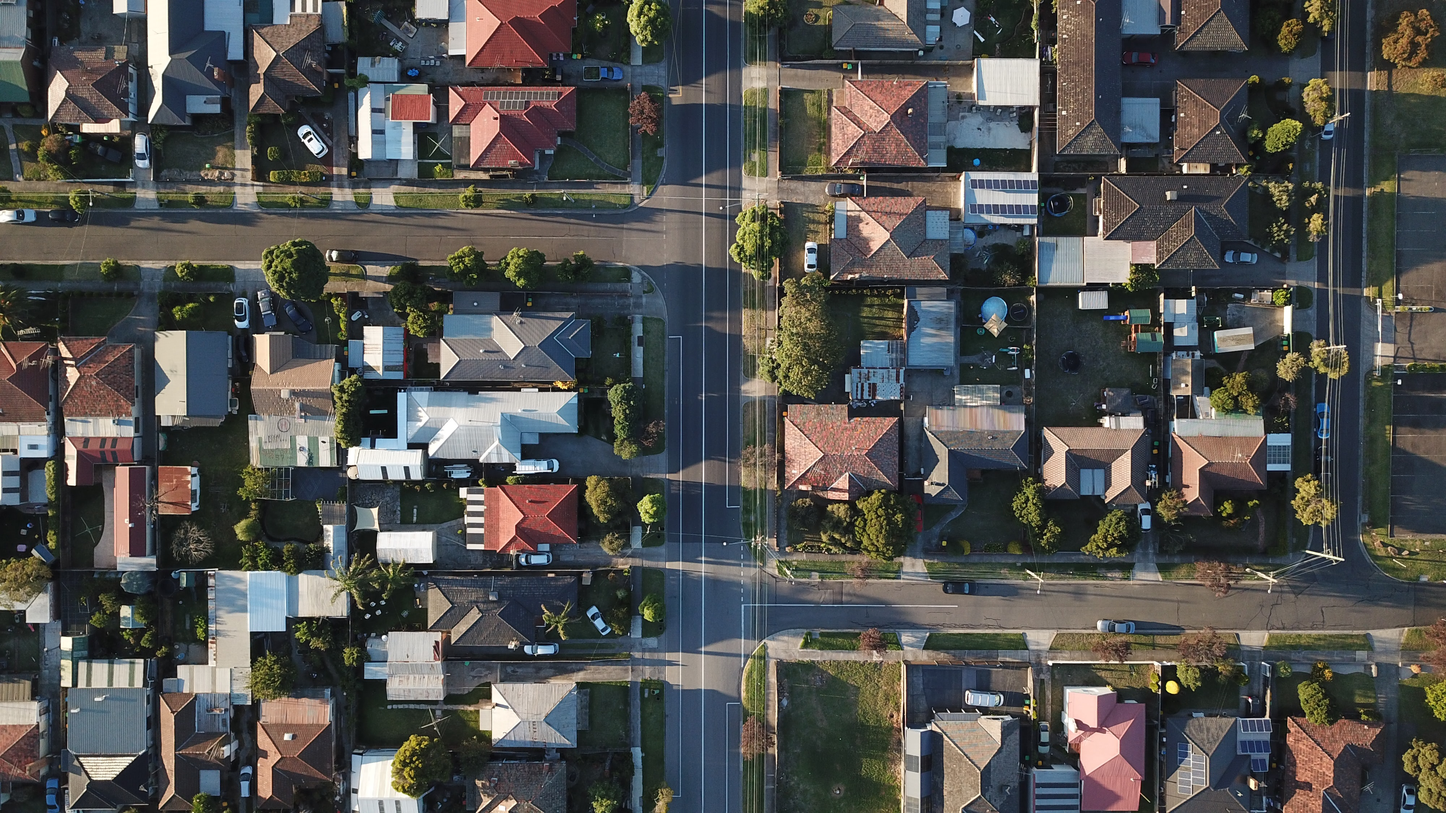
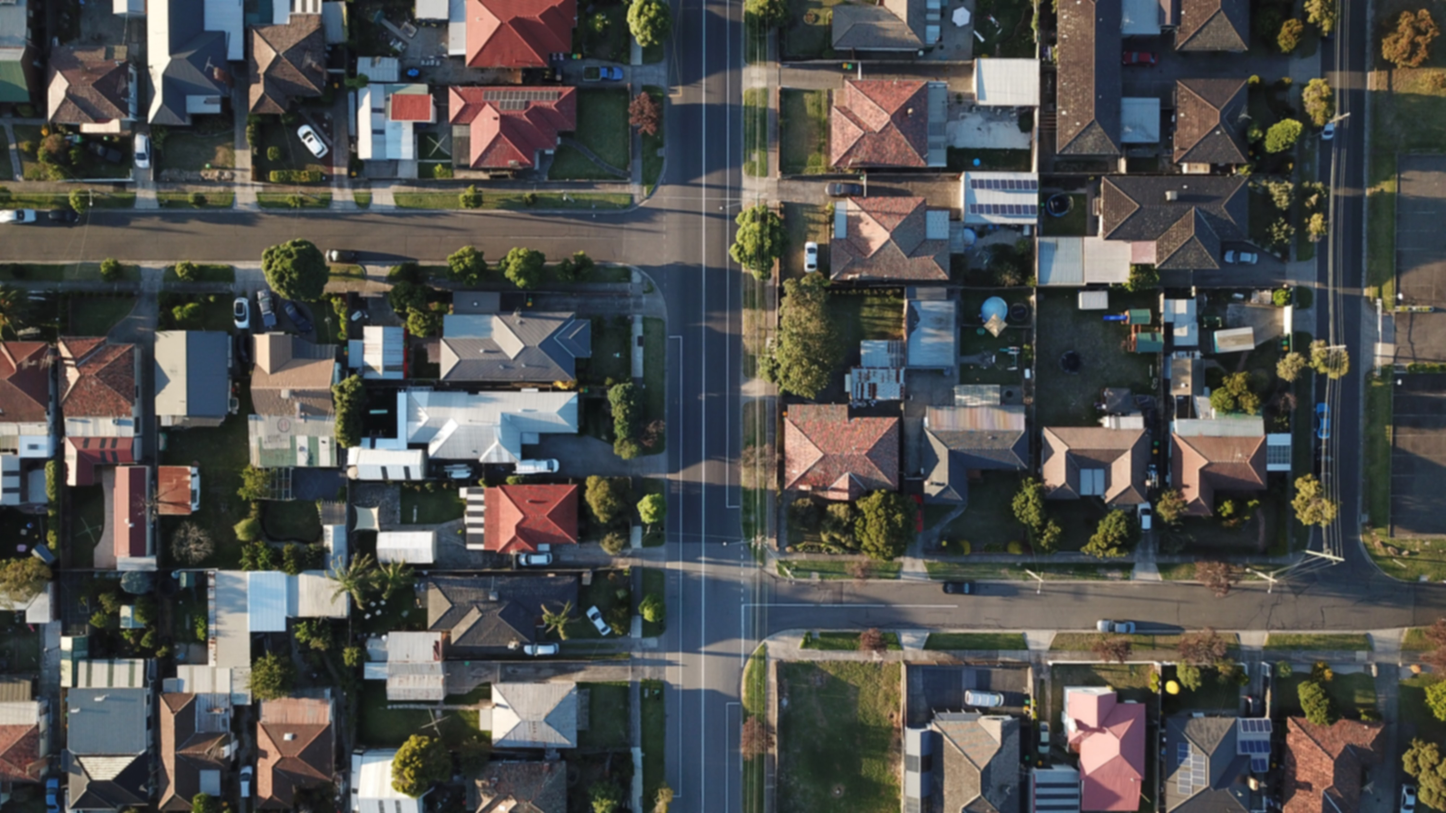
Specified hero-images for each page

diff --git a/css/index.css b/css/index.css
@@ -104,9 +104,8 @@ header nav.links {
     /* border: 1px solid grey; */
 }
 
-header #hero-img {
+header .hero-img {
     margin-top: 2%;
-    background-image: url("/assets/home-hero.jpg");
     background-size: cover;
     background-attachment: fixed;
     height: 45vh;
@@ -114,6 +113,19 @@ header #hero-img {
     flex-direction: column;
     justify-content: center;
     align-items: center;
+}
+
+header #home-hero-img {
+    background-image: url("/assets/home-hero.jpg");
+}
+
+header #about-hero-img {
+    background-image: url("/assets/about-hero.jpg");
+}
+
+header #team-hero-img {
+    background-image: url("/assets/team-hero.jpg");
+    background-position: bottom;
 }
 
 header .heading-container {

diff --git a/about.html b/about.html
@@ -25,7 +25,7 @@
             </nav>
             </nav>
         </div>
-        <div id="hero-img">
+        <div class="hero-img" id="about-hero-img">
             <div class="heading-container">
                 <h2>Co-Make is your local hub to resolve issues in your community.</h2>
             </div>

diff --git a/index.html b/index.html
@@ -25,7 +25,7 @@
             </nav>
             </nav>
         </div>
-        <div id="hero-img">
+        <div class="hero-img" id="home-hero-img">
 
             <div class="heading-container">
                 <h2>Co-Make is your local hub to resolve issues in your community.</h2>

diff --git a/team.html b/team.html
@@ -25,7 +25,7 @@
             </nav>
             </nav>
         </div>
-        <div id="hero-img">
+        <div class="hero-img" id="team-hero-img">
 
             <div class="heading-container">
                 <h2>Co-Make is your local hub to resolve issues in your community.</h2>
